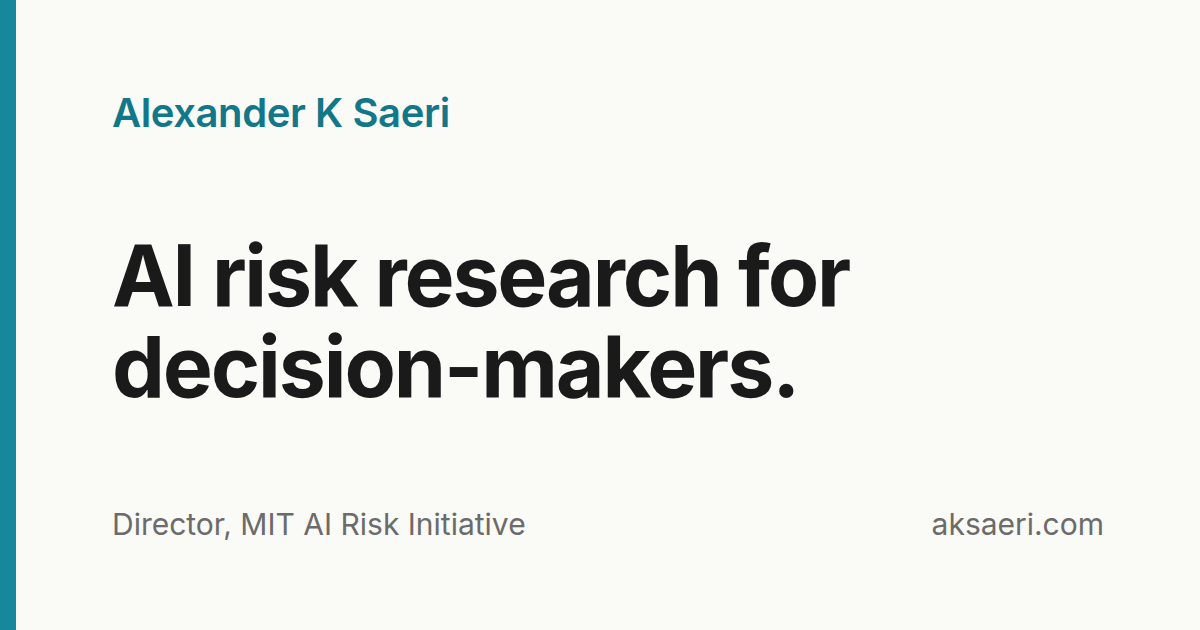
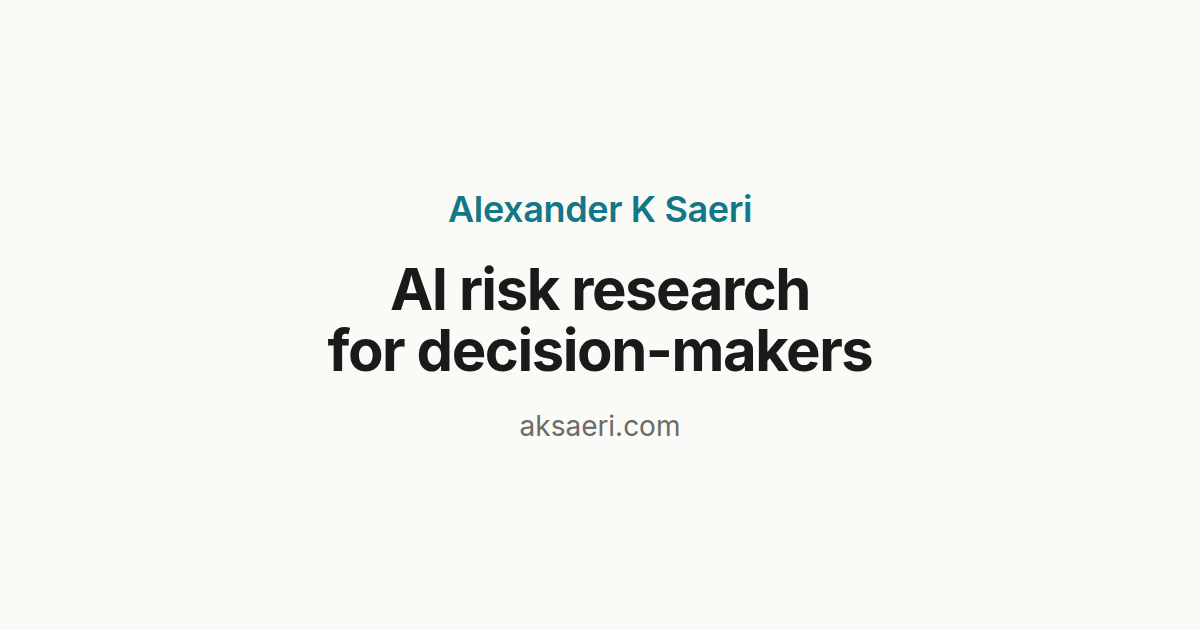
Preview card: drop role line and full stop, keep text in square-crop safe area
Claude-Session: https://claude.ai/code/session_01CgtBGYdBDBtJnJs3S6WscQ

diff --git a/scripts/og-card.html b/scripts/og-card.html
@@ -1,14 +1,18 @@
-<!doctype html><html><head><meta charset="utf-8">
-<!-- Source for public/og.png. Render at a 1200x630 viewport and screenshot to public/og.png (e.g. Playwright). -->
-<link href="https://fonts.googleapis.com/css2?family=Inter:wght@400;600;700&display=swap" rel="stylesheet">
+<!doctype html>
+<!-- Source for public/og.png. Render at 1200x630 and screenshot to public/og.png.
+     All text stays inside the centre 630x630 square (x 285-915), so square crops keep it. -->
+<html lang="en"><head><meta charset="utf-8">
+<link rel="stylesheet" href="https://fonts.googleapis.com/css2?family=Inter:wght@400;600;700&display=swap">
 <style>
-  html,body{margin:0;width:1200px;height:630px;background:#FAFAF7;font-family:'Inter',sans-serif}
-  .card{box-sizing:border-box;width:1200px;height:630px;padding:88px 96px;display:flex;flex-direction:column;justify-content:space-between;border-left:16px solid #17879B}
-  .name{font-size:40px;font-weight:600;color:#127788;letter-spacing:-0.01em}
-  h1{margin:0;font-size:84px;line-height:1.08;font-weight:700;color:#1A1A1A;letter-spacing:-0.025em;max-width:16ch}
-  .foot{font-size:30px;color:#6B6B6B;display:flex;justify-content:space-between}
-</style></head><body><div class="card">
+  html, body { margin: 0; width: 1200px; height: 630px; overflow: hidden; background: #FAFAF7; font-family: Inter, sans-serif; }
+  .safe { position: absolute; left: 285px; top: 0; width: 630px; height: 630px; box-sizing: border-box; padding: 72px 40px; display: flex; flex-direction: column; justify-content: center; align-items: center; text-align: center; gap: 28px; }
+  .name { font-size: 36px; font-weight: 600; color: #127788; letter-spacing: -0.01em; }
+  h1 { margin: 0; font-size: 58px; line-height: 1.05; font-weight: 700; color: #1A1A1A; letter-spacing: -0.025em; }
+  .url { font-size: 28px; color: #6B6B6B; }
+  .nw { white-space: nowrap; }
+</style></head>
+<body><div class="safe">
   <div class="name">Alexander K Saeri</div>
-  <h1>AI risk research for decision-makers.</h1>
-  <div class="foot"><span>Director, MIT AI Risk Initiative</span><span>aksaeri.com</span></div>
+  <h1>AI risk research<br><span class="nw">for decision-makers</span></h1>
+  <div class="url">aksaeri.com</div>
 </div></body></html>

diff --git a/CLAUDE.md b/CLAUDE.md
@@ -102,7 +102,7 @@ The Vercel project is `site-aksaeri-com.vercel.app`; the primary domain `aksaeri
 - Images use `<Image>` from `astro:assets` with files imported from `src/assets/`.
 - One content page (`index.astro`) plus `404.astro`. Any new page is a new file under `src/pages/`.
 - Accessibility target is WCAG 2.2 AA. Teal text, links and buttons use `--color-accent-text` (`#127788`), not brand teal `#17879B`, which fails 4.5:1 on the off-white background. Links in `main` are underlined.
-- `og.png` is a plain brand card (name, headline, title). If the headline or title changes, edit `scripts/og-card.html` and re-render it to `public/og.png` at 1200x630.
+- `og.png` is a plain brand card (name, headline, domain; no role line). All text stays inside the centre 630x630 square (x 285-915) so square crops keep it. If the headline or title changes, edit `scripts/og-card.html` and re-render it to `public/og.png` at 1200x630.
 
 ## Things to Avoid
 
